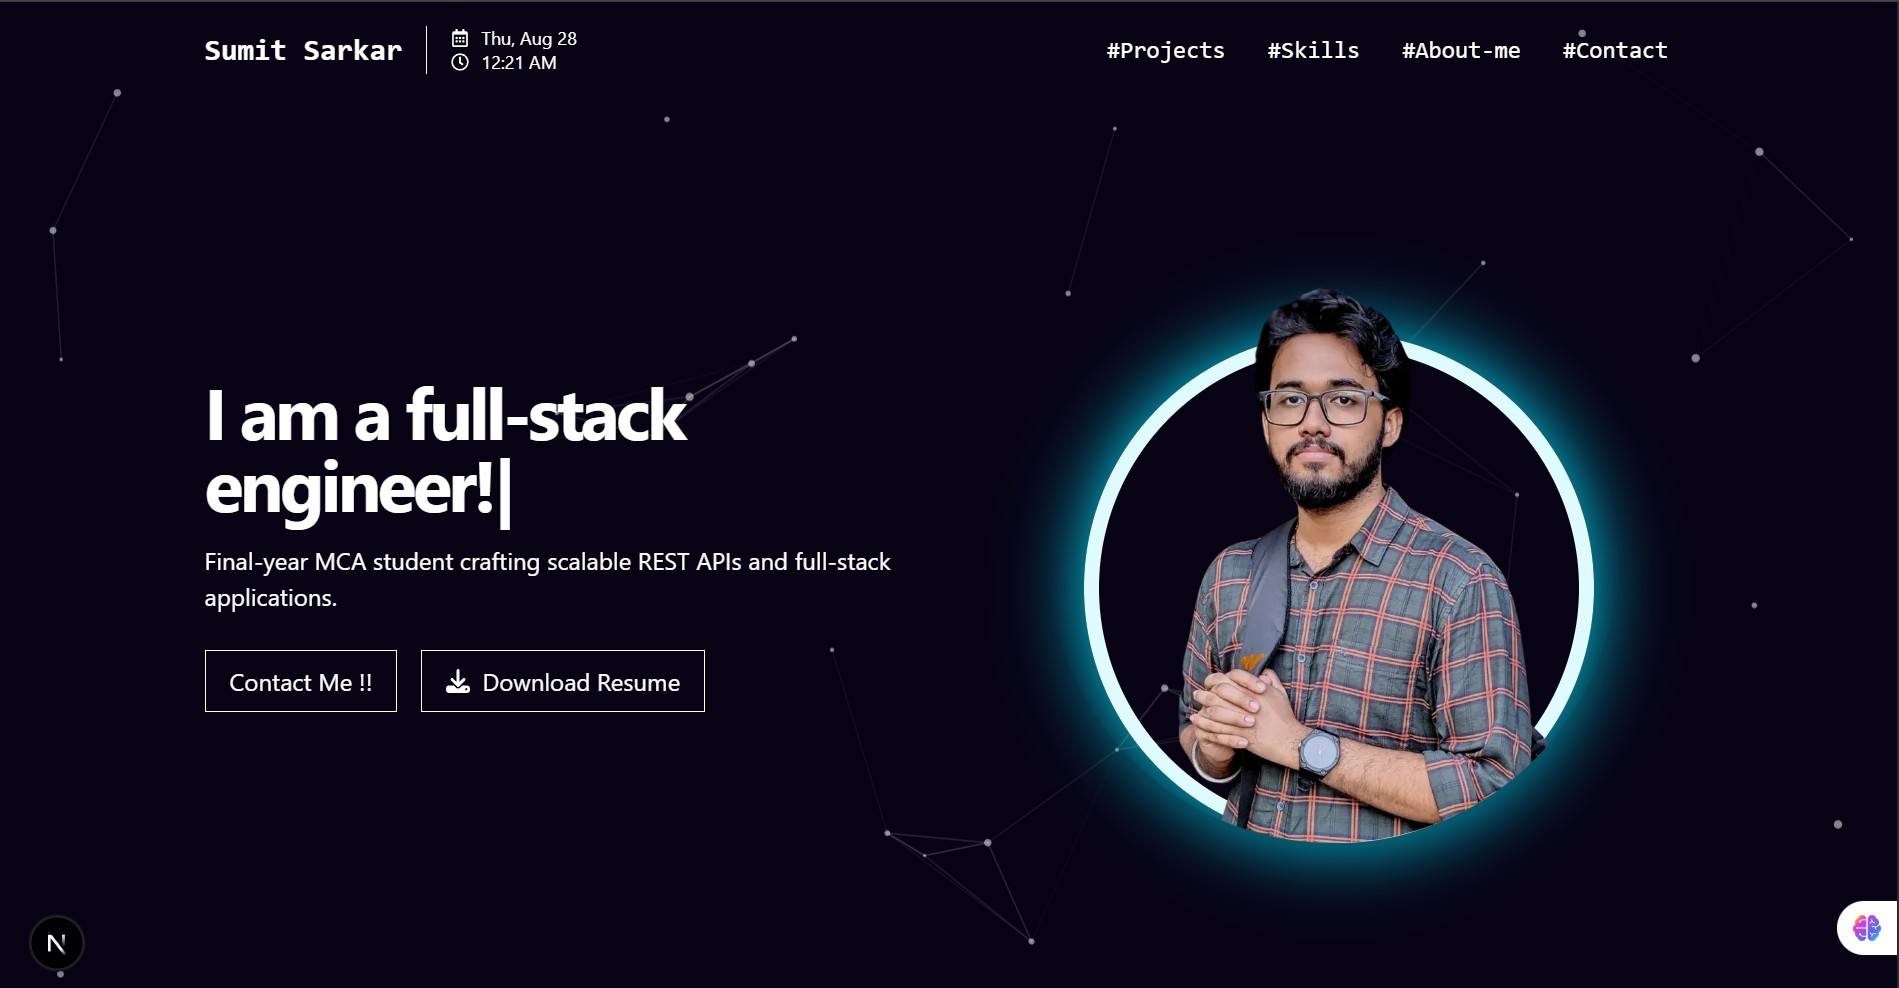
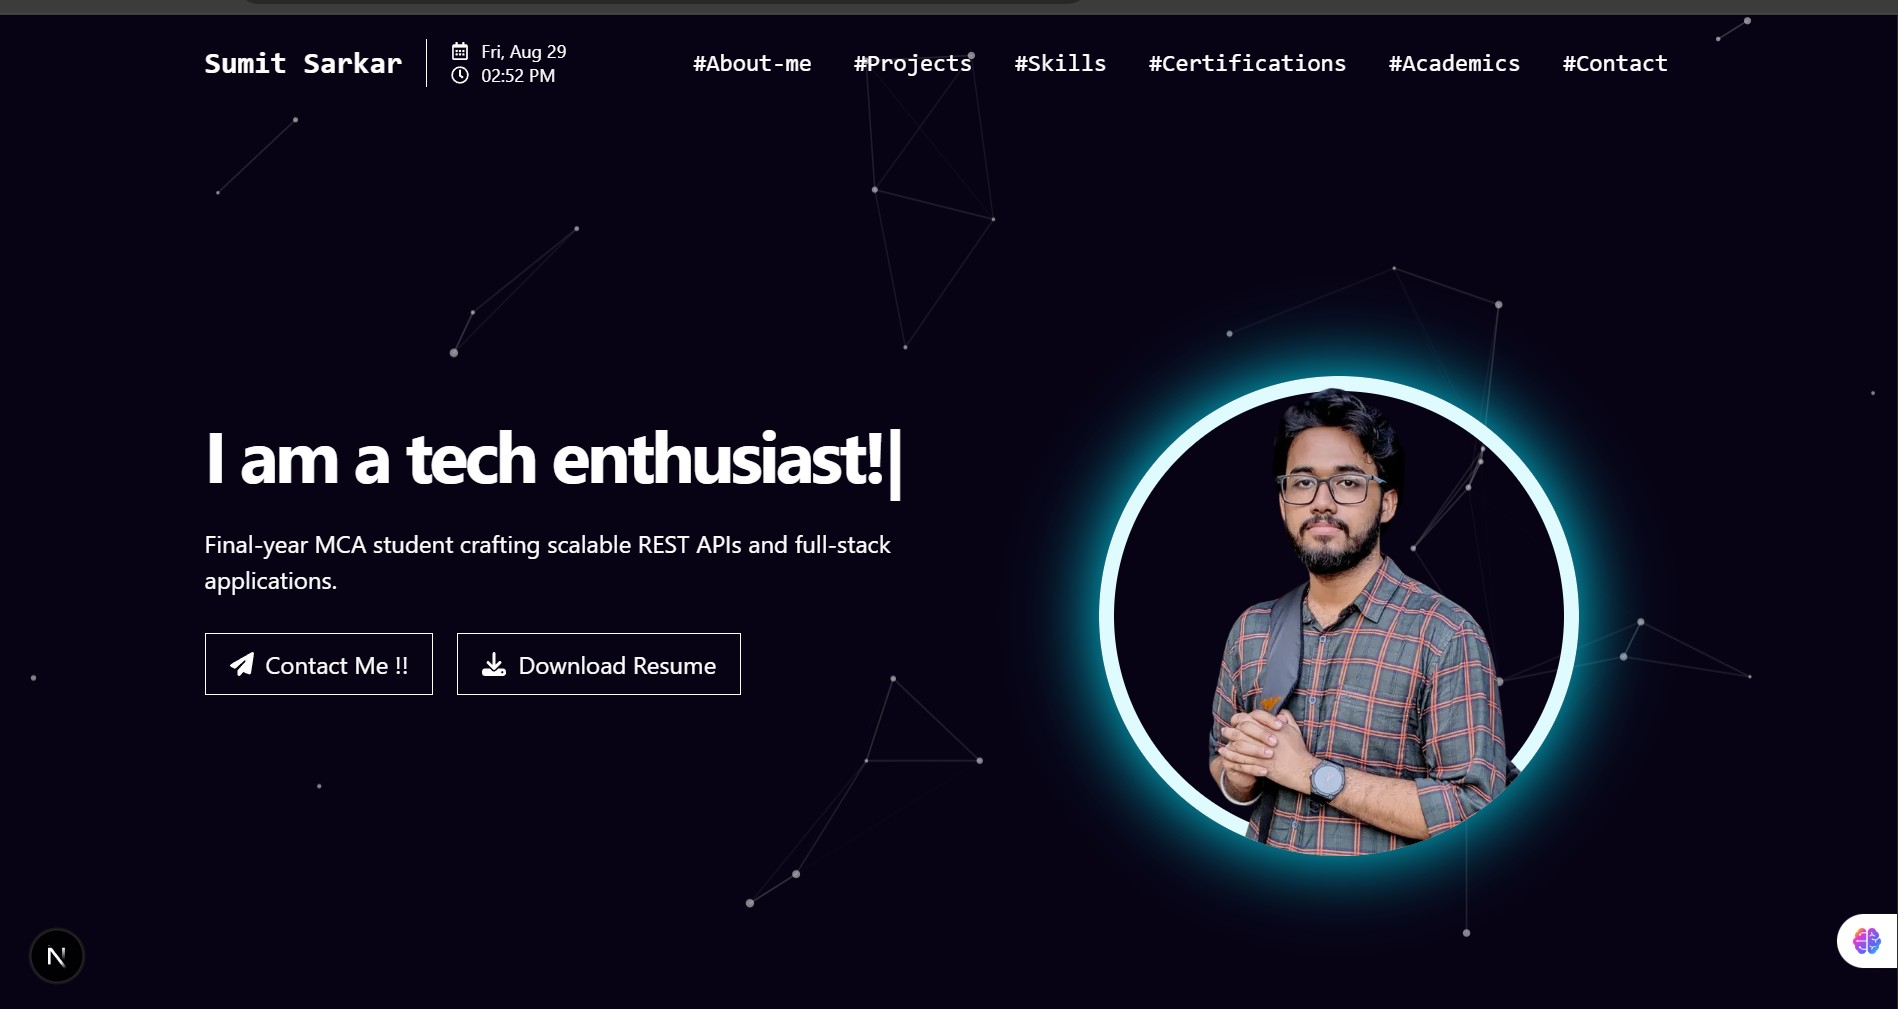
commit 29-08-25

diff --git a/components/Hero.tsx b/components/Hero.tsx
@@ -2,65 +2,56 @@
 
 import Image from 'next/image';
 import { TypeAnimation } from 'react-type-animation';
-// 1. Import the new icon
 import { FaDownload, FaPaperPlane } from 'react-icons/fa6'; 
 
 const Hero = () => {
   return (
-    <section className="py-24">
+    <section className="py-38 md:py-24">
       <div className="grid grid-cols-1 items-center gap-12 md:grid-cols-2">
-        <div className="space-y-4">
+        <div className="space-y-6 text-center md:text-left">
           <TypeAnimation
             sequence={[
-              'I am a tech enthusiast!',
-              3500,
-              'I am a full-stack engineer!',
-              3500,
-              'I am a web developer!',
-              3500,
+              'I am a tech enthusiast!', 3500,
+              'I am a full-stack engineer!', 3500,
+              'I am a web developer!', 3500,
             ]}
             wrapper="h1"
             speed={60}
-            className="text-4xl font-bold tracking-tighter lg:text-5xl"
+            className="text-3xl font-bold tracking-tighter sm:text-4xl lg:text-5xl"
             repeat={Infinity}
           />
           <p className="text-text-dark">
             Final-year MCA student crafting scalable REST APIs and full-stack applications.
           </p>
-
-          <div className="mt-6 flex items-center gap-4">
-            {/* --- THIS IS THE UPDATED BUTTON --- */}
-            <a 
-              href="#contact" 
-              className="inline-flex items-center gap-2 border border-accent px-4 py-2 text-white transition hover:bg-accent/10"
-            >
-              <FaPaperPlane /> {/* 2. Add the icon component */}
+          <div className="flex flex-col items-center gap-4 sm:flex-row sm:justify-center md:justify-start">
+            <a href="#contact" className="inline-flex w-full items-center justify-center gap-2 border border-accent px-4 py-2 text-white transition hover:bg-accent/10 sm:w-auto">
+              <FaPaperPlane />
               <span>Contact Me !!</span>
             </a>
-            
-            <a
-              href="/Resume.pdf" 
-              download
-              className="inline-flex items-center gap-2 border border-border-gray px-4 py-2 text-text-dark transition hover:border-accent hover:text-accent"
-            >
+            <a href="/Sumit-Sarkar-Resume.pdf" download className="inline-flex w-full items-center justify-center gap-2 border border-border-gray px-4 py-2 text-text-dark transition hover:border-accent hover:text-accent sm:w-auto">
               <FaDownload /> 
               <span>Download Resume</span>
             </a>
           </div>
-
         </div>
+
+        {/* --- THIS IS THE UPDATED PART --- */}
         <div className="relative flex h-[400px] w-full items-end justify-center">
-          <div className="absolute bottom-0 h-[340px] w-[340px] rounded-full border-[10px] border-[#E0FBFF] z-10 shadow-[0_0_50px_#00DEF7]"></div>
-          <div className="relative z-20 rounded-full overflow-hidden shadow-lg ml-3 mr-5">
+          {/* The background ring (340px wide) */}
+          <div className="absolute bottom-0 h-[320px] w-[320px] rounded-full border-[10px] border-[#E0FBFF] z-10 shadow-[0_0_50px_#00DEF7]"></div>
+          
+          {/* The image container (margins removed) */}
+          <div className="relative z-20">
             <Image
               src="/sumit.png"
               alt="Sumit Sarkar"
-              width={380}
-              height={380}
-              className="object-cover"
+              width={320}  // Image is now smaller (320px) than the ring
+              height={320}
+              className="rounded-full object-cover" // Image is also a circle
             />
           </div>
         </div>
+        {/* --- END OF UPDATED PART --- */}
       </div>
     </section>
   );

diff --git a/components/CustomCursor.tsx b/components/CustomCursor.tsx
@@ -1,0 +1,82 @@
+'use client';
+
+import { useState, useEffect } from 'react';
+import { motion } from 'framer-motion';
+
+const CustomCursor = () => {
+  const [mousePosition, setMousePosition] = useState({ x: -100, y: -100 });
+  const [isHoveringLink, setIsHoveringLink] = useState(false);
+
+  useEffect(() => {
+    const handleMouseMove = (event: MouseEvent) => {
+      setMousePosition({ x: event.clientX, y: event.clientY });
+
+      // Check if the target is an interactive element
+      const target = event.target as HTMLElement;
+      if (target.closest('a, button')) {
+        setIsHoveringLink(true);
+      } else {
+        setIsHoveringLink(false);
+      }
+    };
+
+    window.addEventListener('mousemove', handleMouseMove);
+
+    return () => {
+      window.removeEventListener('mousemove', handleMouseMove);
+    };
+  }, []);
+
+  const cursorVariants = {
+    default: {
+      x: mousePosition.x - 4,
+      y: mousePosition.y - 4,
+      scale: 1,
+      backgroundColor: 'rgba(0, 204, 255, 1)', // accent color
+    },
+    hovering: {
+      x: mousePosition.x - 24,
+      y: mousePosition.y - 24,
+      scale: 1,
+      height: 48,
+      width: 48,
+      backgroundColor: 'rgba(0, 204, 255, 0.2)', // transparent accent
+      border: '2px solid rgba(0, 225, 255, 0.5)',
+    },
+  };
+
+  const dotVariants = {
+    default: {
+      x: mousePosition.x - 4,
+      y: mousePosition.y - 4,
+      scale: 1,
+    },
+    hovering: {
+      x: mousePosition.x - 4,
+      y: mousePosition.y - 4,
+      scale: 0, // Disappear on hover
+    },
+  };
+
+  return (
+    <>
+      {/* The follower/highlighter */}
+      <motion.div
+        variants={cursorVariants}
+        animate={isHoveringLink ? 'hovering' : 'default'}
+        transition={{ type: 'spring', stiffness: 300, damping: 20 }}
+        className="fixed h-10 w-10 rounded-full border-2 border-accent pointer-events-none z-[9999]"
+      ></motion.div>
+      
+      {/* The main dot */}
+      <motion.div
+        variants={dotVariants}
+        animate={isHoveringLink ? 'hovering' : 'default'}
+        transition={{ type: 'spring', stiffness: 500, damping: 20 }}
+        className="fixed h-2 w-2 rounded-full bg-accent pointer-events-none z-[9999]"
+      ></motion.div>
+    </>
+  );
+};
+
+export default CustomCursor;

diff --git a/components/Loader.tsx b/components/Loader.tsx
@@ -1,18 +1,17 @@
 'use client';
 
 import { useState, useEffect } from 'react';
+import { TypeAnimation } from 'react-type-animation'; // 1. Import the animation library
 import './Loader.css';
 
 const Loader = () => {
   const [progress, setProgress] = useState(0);
-  const [isMounted, setIsMounted] = useState(false); // New state to track if component is mounted
+  const [isMounted, setIsMounted] = useState(false);
 
-  // This effect runs once on the client to confirm the component is mounted
   useEffect(() => {
     setIsMounted(true);
   }, []);
 
-  // This effect starts the timer ONLY after the component has mounted
   useEffect(() => {
     if (isMounted) {
       const timer = setInterval(() => {
@@ -29,7 +28,7 @@ const Loader = () => {
         clearInterval(timer);
       };
     }
-  }, [isMounted]); // The dependency on isMounted is key
+  }, [isMounted]);
 
   const radius = 40;
   const circumference = 2 * Math.PI * radius;
@@ -56,9 +55,19 @@ const Loader = () => {
         </svg>
       </div>
 
-      <p className="flicker-text mt-8 font-mono text-2xl uppercase tracking-widest">
-        Processing...
-      </p>
+      {/* 2. Replaced the <p> tag with the TypeAnimation component */}
+      <TypeAnimation
+        sequence={[
+          'Getting things ready...',
+          1000,
+          'Finalizing...',
+          1000,
+        ]}
+        wrapper="p"
+        speed={70}
+        className="mt-8 font-sans text-2xl uppercase tracking-widest text-text-light"
+        repeat={Infinity}
+      />
     </div>
   );
 };

diff --git a/components/AboutMe.tsx b/components/AboutMe.tsx
@@ -4,11 +4,22 @@ import profileImage from '../public/profile.jpeg';
 
 const AboutMe = () => {
   return (
-    <section id="about-me" className="py-16">
-      {/* Added mb-12 (margin-bottom) to create a gap */}
-      <h2 className="text-4xl font-bold tracking-tight text-text-light sm:text-5xl">
-        More About me
-      </h2>
+    <section id="about-me" className="py-38 md:py-24">
+      
+      {/* --- NEW STYLISH HEADER --- */}
+      <div className="mb-8">
+        <p className="font-mono text-sm uppercase tracking-widest text-text-dark">
+          More About Me
+        </p>
+        <h2 className="mt-2 text-4xl font-bold tracking-tight text-text-light sm:text-5xl">
+          <span>I&apos;m Sumit, a</span>
+          <span className="block bg-gradient-to-r from-blue-900 to-sky-400 bg-clip-text text-transparent">
+            Software developer
+          </span>
+        </h2>
+      </div>
+      {/* --- END OF NEW HEADER --- */}
+
       <div className="grid grid-cols-1 items-center gap-12 md:grid-cols-2">
         <div className="space-y-4 text-text-dark">
           <p>

diff --git a/components/Academics.tsx b/components/Academics.tsx
@@ -1,15 +1,15 @@
 const academicsData = [
   {
-    university: 'Kalinga Institute of Industrial Technology',
-    degree: 'Masters of Computer Application',
+    university: 'Kalinga Institute of Industrial Technology University',
+    degree: 'Masters of Computer Applications',
     dates: 'Sept 2024 - Aug 2026',
     grade: 'CGPA: 9.10',
   },
   {
     university: 'Techno India College of Technology',
-    degree: 'Bachelors of Computer Application',
+    degree: 'Bachelors of Computer Applications',
     dates: 'Sept 2021 - July 2024',
-    grade: 'CGPA: 8.85',
+    grade: 'CGPA: 8.80',
   },
   {
     university: 'Sunrise English Medium School',
@@ -21,7 +21,7 @@ const academicsData = [
 
 const Academics = () => {
   return (
-    <section id="academics" className="py-24">
+    <section id="academics" className="py-38 md:py-24">
       <div className="container mx-auto max-w-3xl px-4">
         <h2 className="mb-16 text-center text-4xl font-bold tracking-tight text-text-light sm:text-5xl">
           My Journey

diff --git a/components/Skills.tsx b/components/Skills.tsx
@@ -37,11 +37,11 @@ const conceptsData = ['OOP', 'Data Structures', 'Agile', 'SDLC', 'Networking (CC
 
 const Skills = () => {
   return (
-    <section id="skills" className="py-24">
+    <section id="skills" className="py-38 md:py-24">
       <div className="text-center">
         <p className="font-mono text-sm uppercase text-text-dark">My Skills</p>
         <h2 className="text-4xl font-bold tracking-tight text-text-light sm:text-5xl">
-          The Spice <span className="text-accent">Box</span>
+          My Tool <span className="text-accent">Box</span>
         </h2>
       </div>
 
@@ -60,7 +60,7 @@ const Skills = () => {
         ))}
       </div>
 
-      <div className="mt-16 text-center">
+      <div className="mt-24 text-center">
         <h3 className="text-2xl font-bold text-text-light">Core Concepts</h3>
         <div className="mx-auto mt-4 flex max-w-3xl flex-wrap justify-center gap-x-6 gap-y-2">
           {conceptsData.map((concept, i) => (

diff --git a/app/layout.tsx b/app/layout.tsx
@@ -4,6 +4,7 @@ import { useState, useEffect } from 'react';
 import { Inter, Fira_Code } from 'next/font/google';
 import './globals.css';
 import Loader from '@/components/Loader';
+import CustomCursor from '@/components/CustomCursor';
 import { AnimatePresence, motion } from 'framer-motion';
 
 const inter = Inter({ subsets: ['latin'], variable: '--font-inter' });
@@ -29,6 +30,9 @@ export default function RootLayout({ children }: { children: React.ReactNode }) 
       <body
         className={`${inter.variable} ${firaCode.variable} bg-background font-sans text-text-light`}
       >
+         <div className="hidden md:block">
+          <CustomCursor />
+        </div>
         <AnimatePresence mode="wait">
           {isLoading ? (
             <motion.div key="loader">

diff --git a/components/Contact.tsx b/components/Contact.tsx
@@ -36,7 +36,7 @@ const contactDetails = [
 
 const Contact = () => {
   return (
-    <section id="contact" className="relative overflow-hidden py-24">
+    <section id="contact" className="relative overflow-hidden py-38 md:py-24">
       <div className="absolute top-0 left-1/2 -translate-x-1/2 w-[150%] h-[60%] bg-gradient-to-tr from-background via-accent/30 to-background rounded-full blur-3xl -z-10"></div>
       <div className="container mx-auto max-w-5xl px-4 text-center">
         <h2 className="text-4xl font-extrabold uppercase tracking-widest text-text-light">

diff --git a/components/Projects.tsx b/components/Projects.tsx
@@ -27,7 +27,7 @@ const projects = [
 
 const Projects = () => {
   return (
-    <section id="projects" className="py-16 md:py-24">
+    <section id="projects" className="py-38 md:py-24">
       <div className="mb-12">
         {/* Header stacks and centers on mobile */}
         <div className="flex flex-col items-center gap-4 text-center md:flex-row md:justify-between md:text-left">

diff --git a/components/Certifications.tsx b/components/Certifications.tsx
@@ -30,7 +30,7 @@ const certificationsData = [
 
 const Certifications = () => {
   return (
-    <section id="certifications" className="py-24">
+    <section id="certifications" className="py-38 md:py-24">
       <h2 className="mb-12 text-center text-3xl font-bold text-text-light sm:text-4xl">
         My Certifications
       </h2>
